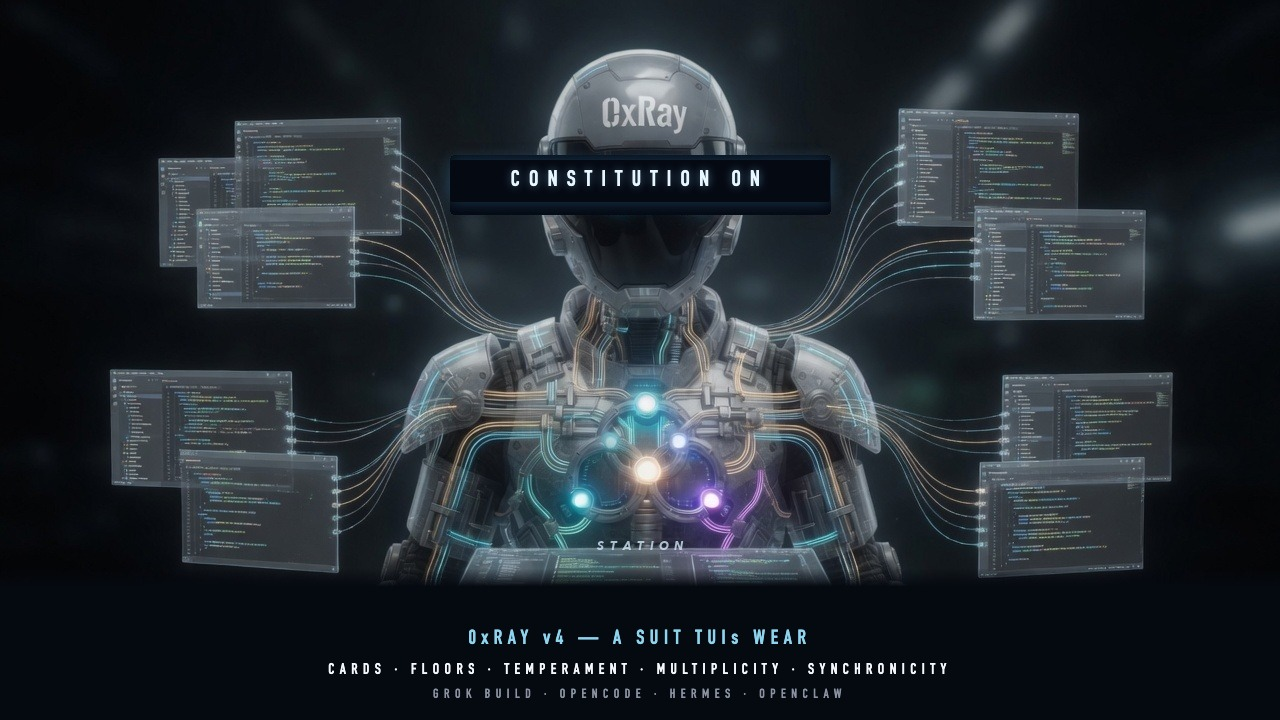
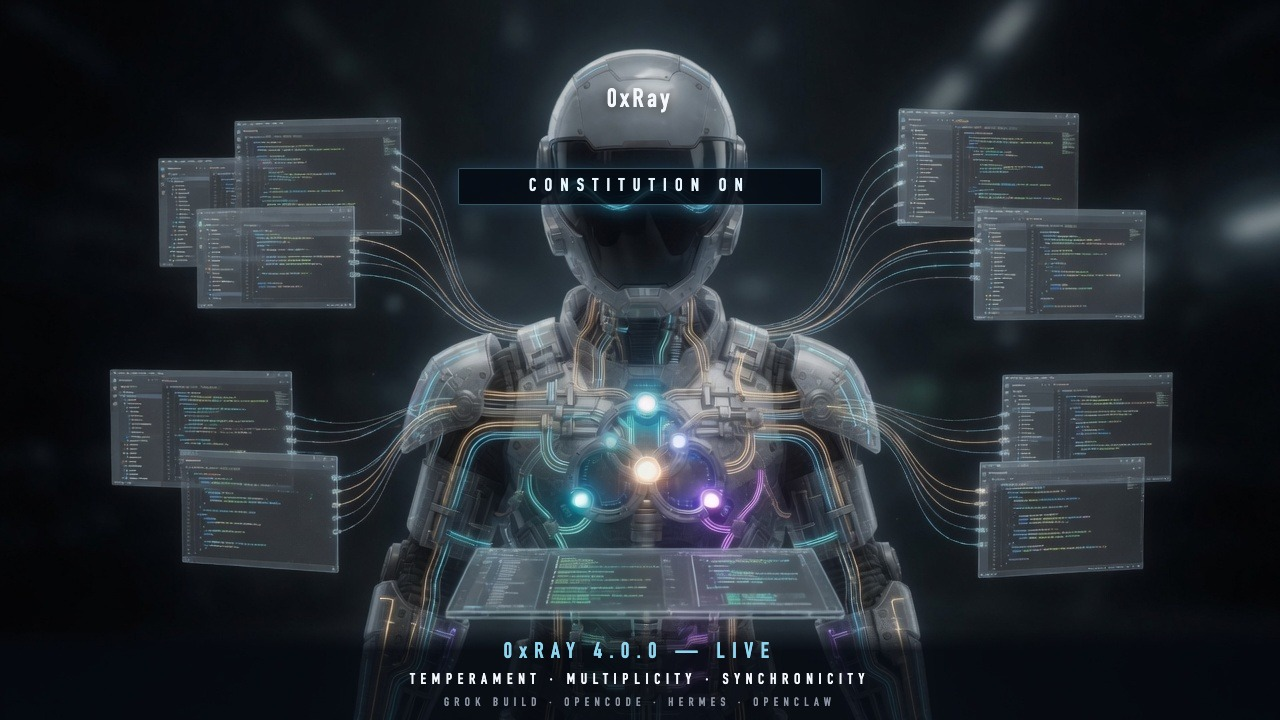
docs(v4): launch hero — 4.0.0 LIVE, visor HUD, no letterbox
Clean plate plus composed type: CONSTITUTION ON, 0xRAY 4.0.0 — LIVE, temperament / multiplicity / synchronicity, four floors.

diff --git a/scripts/media/exo-v4-hero.html b/scripts/media/exo-v4-hero.html
@@ -2,7 +2,7 @@
 <html lang="en">
 <head>
   <meta charset="utf-8" />
-  <title>0xRay v4 exo</title>
+  <title>0xRay v4 exo launch</title>
   <style>
     @font-face {
       font-family: "DIN Condensed";
@@ -29,19 +29,37 @@
       height: 720px;
       object-fit: fill;
     }
-    .bottom-mask {
-      display: none;
+    .mark {
+      position: absolute;
+      left: 0;
+      right: 0;
+      top: 86px;
+      text-align: center;
+      font-family: "DIN Condensed", "Arial Narrow", Arial, sans-serif;
+      font-weight: 700;
+      font-size: 26px;
+      letter-spacing: 0.14em;
+      color: #f4f7fb;
+      text-shadow: 0 2px 12px rgba(0, 0, 0, 0.7);
     }
-    .visor-mask {
+    .visor-chip {
       position: absolute;
       left: 50%;
-      top: 160px;
+      top: 168px;
       transform: translateX(-50%);
-      width: 380px;
-      height: 42px;
-      background: rgba(5, 10, 18, 0.92);
-      border-radius: 3px;
-      box-shadow: 0 0 16px rgba(90, 190, 255, 0.28);
+      min-width: 318px;
+      padding: 7px 22px 6px;
+      background: rgba(4, 10, 18, 0.82);
+      border: 1px solid rgba(143, 212, 238, 0.35);
+      border-radius: 2px;
+      box-shadow: 0 0 18px rgba(90, 190, 255, 0.22);
+      text-align: center;
+      font-family: "DIN Condensed", "Arial Narrow", Arial, sans-serif;
+      font-weight: 700;
+      font-size: 18px;
+      letter-spacing: 0.46em;
+      color: #e7f6ff;
+      text-transform: uppercase;
     }
     .copy {
       position: absolute;
@@ -52,31 +70,23 @@
       font-weight: 700;
       white-space: nowrap;
     }
-    .visor {
-      top: 168px;
-      font-size: 22px;
-      letter-spacing: 0.42em;
-      color: #e7f6ff;
-      text-transform: uppercase;
-      text-shadow: 0 0 10px rgba(140, 210, 255, 0.45);
-    }
     .line1 {
-      bottom: 68px;
-      font-size: 20px;
-      letter-spacing: 0.28em;
+      bottom: 54px;
+      font-size: 22px;
+      letter-spacing: 0.34em;
       color: #8fd4ee;
     }
     .line2 {
-      bottom: 40px;
+      bottom: 30px;
       font-size: 15px;
-      letter-spacing: 0.36em;
+      letter-spacing: 0.38em;
       color: #f4f7fb;
       text-transform: uppercase;
     }
     .line3 {
-      bottom: 16px;
-      font-size: 13px;
-      letter-spacing: 0.42em;
+      bottom: 10px;
+      font-size: 12px;
+      letter-spacing: 0.44em;
       color: #8b93a2;
       text-transform: uppercase;
     }
@@ -85,11 +95,10 @@
 <body>
   <div class="stage">
     <img class="plate" alt="" src="PLATE_SRC" />
-    <div class="bottom-mask"></div>
-    <div class="visor-mask"></div>
-    <div class="copy visor">CONSTITUTION ON</div>
-    <div class="copy line1">0xRAY v4 — A SUIT TUIs WEAR</div>
-    <div class="copy line2">CARDS · FLOORS · TEMPERAMENT · MULTIPLICITY · SYNCHRONICITY</div>
+    <div class="mark">0xRay</div>
+    <div class="visor-chip">CONSTITUTION ON</div>
+    <div class="copy line1">0xRAY 4.0.0 — LIVE</div>
+    <div class="copy line2">TEMPERAMENT · MULTIPLICITY · SYNCHRONICITY</div>
     <div class="copy line3">GROK BUILD · OPENCODE · HERMES · OPENCLAW</div>
   </div>
 </body>

diff --git a/tweets/v4.0.0.md b/tweets/v4.0.0.md
@@ -2,7 +2,7 @@
 
 **Status:** LIVE on npm `0xray@4.0.0` · GitHub [v4.0.0](https://github.com/0xRayAI/xray/releases/tag/v4.0.0)  
 **Quote:** [Aug 28 thesis](https://x.com/Blaze0x1/status/2093318114217763225) — 4.0 was under dev. It is not anymore.  
-**Image:** `docs-site/static/img/exo-skeleton-v4.jpg` (16:9 hero) · `docs-site/static/img/social-card.png` (OG) · plant still `docs-site/static/img/exo-skeleton-v4-ignition.jpg`  
+**Image (launch):** `docs-site/static/img/exo-skeleton-v4.jpg` — attach this. HUD: CONSTITUTION ON · 0xRAY 4.0.0 — LIVE. OG: `docs-site/static/img/social-card.png`. Plant still: `docs-site/static/img/exo-skeleton-v4-ignition.jpg`.  
 **Posted:** not yet
 
 Do not lead with 42 agents / 45 skills / 7 MCPs. Those are organs. The product is the skeleton.
